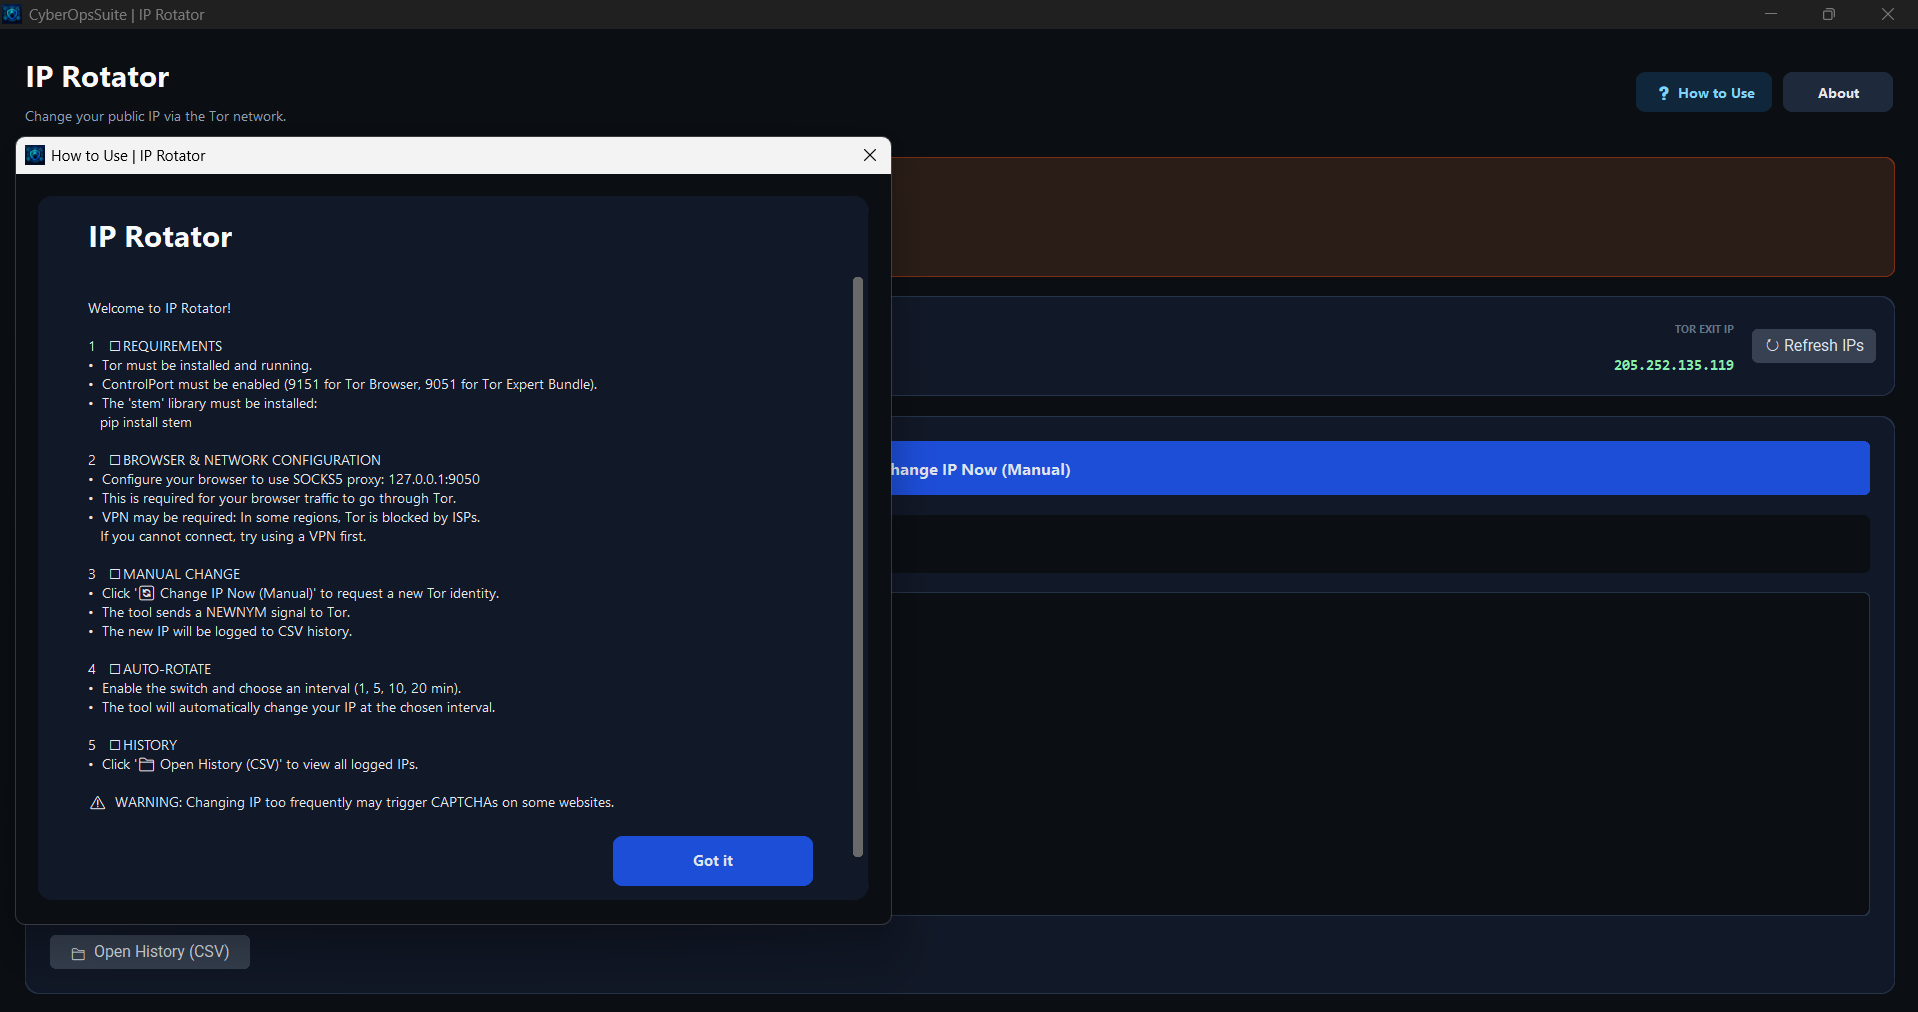
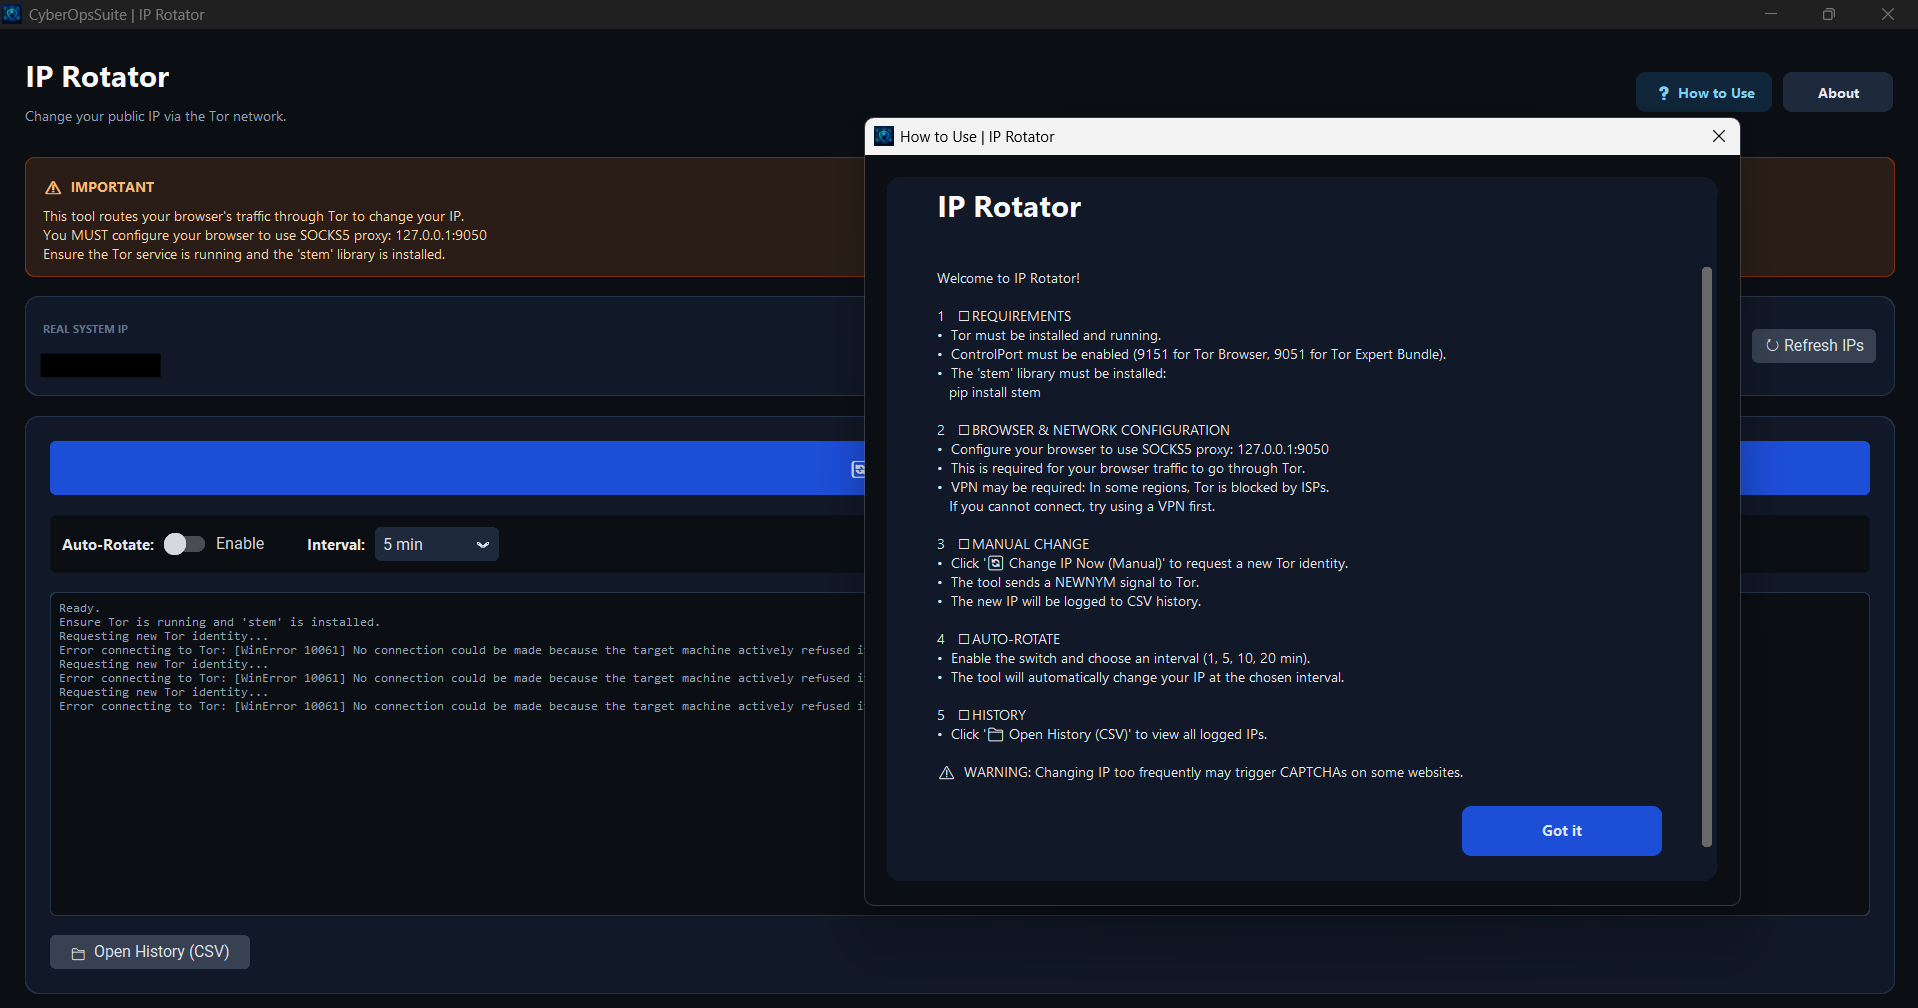
docs: update both READMEs with screenshots and download links

diff --git a/README.md b/README.md
@@ -20,6 +20,31 @@ built-in **How to Use** guide (per-page where applicable).
 
 ---
 
+## 📥 Download
+
+You can download the latest standalone Windows release here:
+👉 **[Download CyberOpsSuite (Windows)](https://github.com/LorinBuilds/CyberOpsSuite/releases/latest)**
+*(No Python installation is required to run the executable)*
+
+---
+
+## 📸 Screenshots
+
+Here is a quick overview of the modules available in CyberOpsSuite:
+
+| Module | Preview |
+| :--- | :--- |
+| **Dashboard** | ![Dashboard](screenshots/dashboard.png) |
+| **Firewall Manager** | ![Firewall](screenshots/firewall_manager.png) |
+| **Network Mapper** | ![Network Mapper](screenshots/network_mapper.png) |
+| **Server Monitor** | ![Server Monitor](screenshots/server_monitor.png) |
+| **VPN Manager** | ![VPN](screenshots/vpn_manager.png) |
+| **Event Log Analyzer** | ![Event Log](screenshots/event_log_analyzer.png) |
+| **DHCP Lease Viewer** | ![DHCP](screenshots/dhcp_lease_viewer.png) |
+| **IP Rotator** | ![IP Rotator](screenshots/ip_rotator.png) |
+
+---
+
 ## Modules
 
 | Module | Purpose | Platform |
